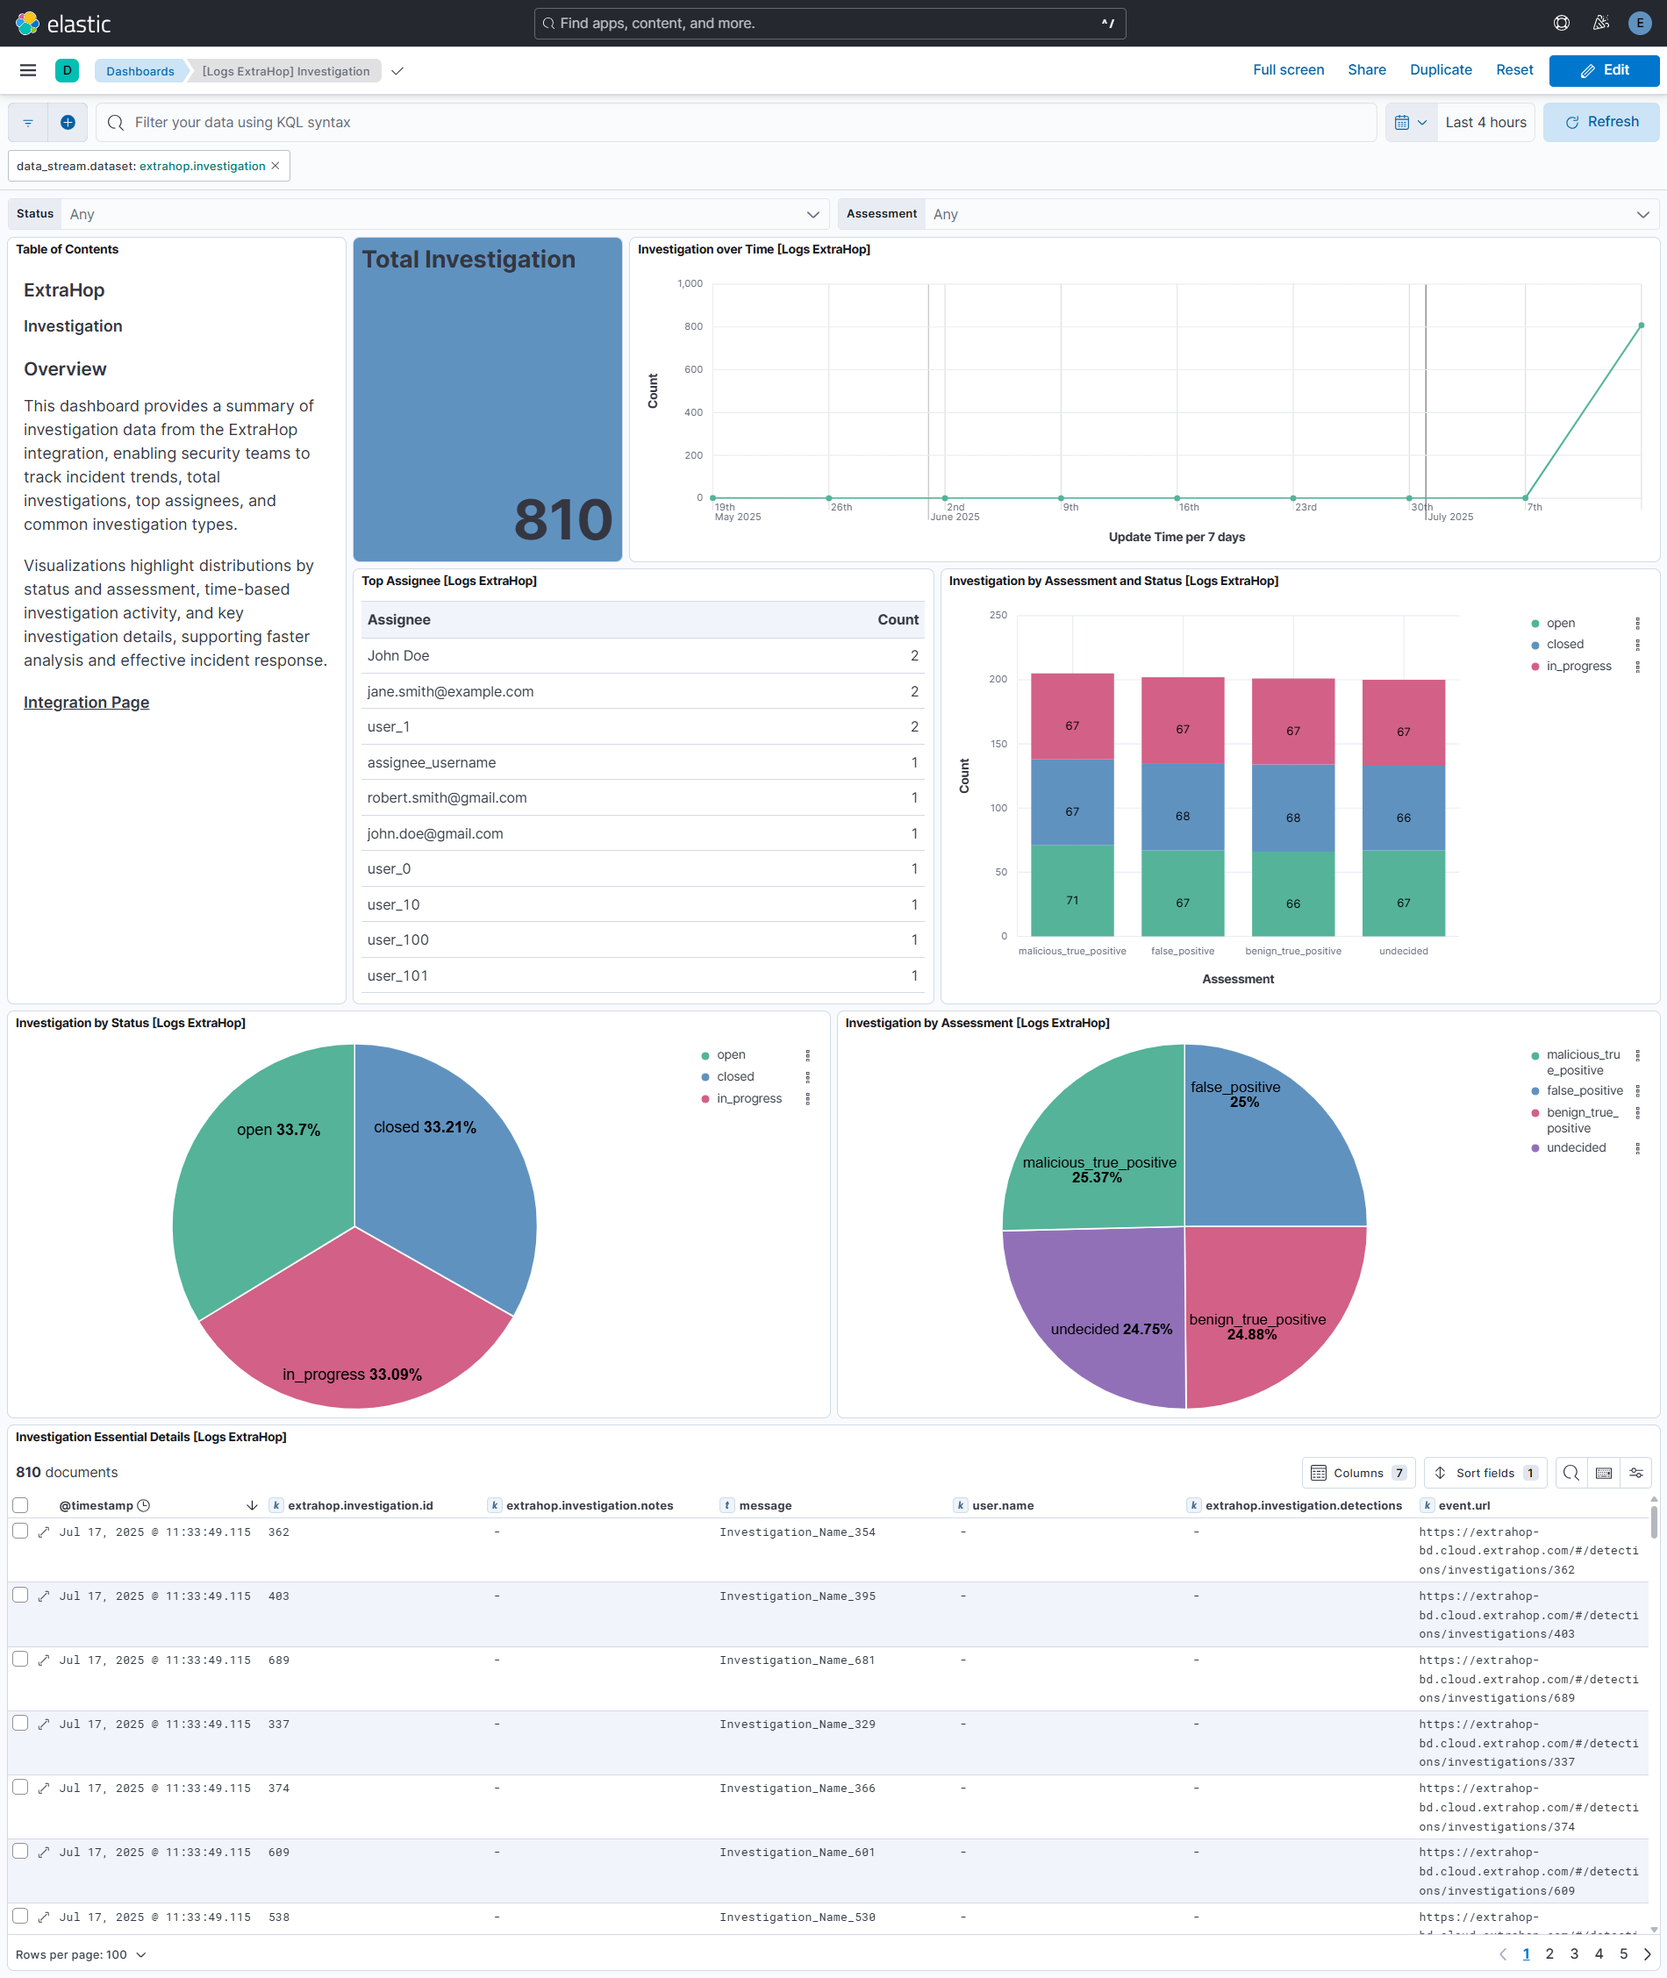
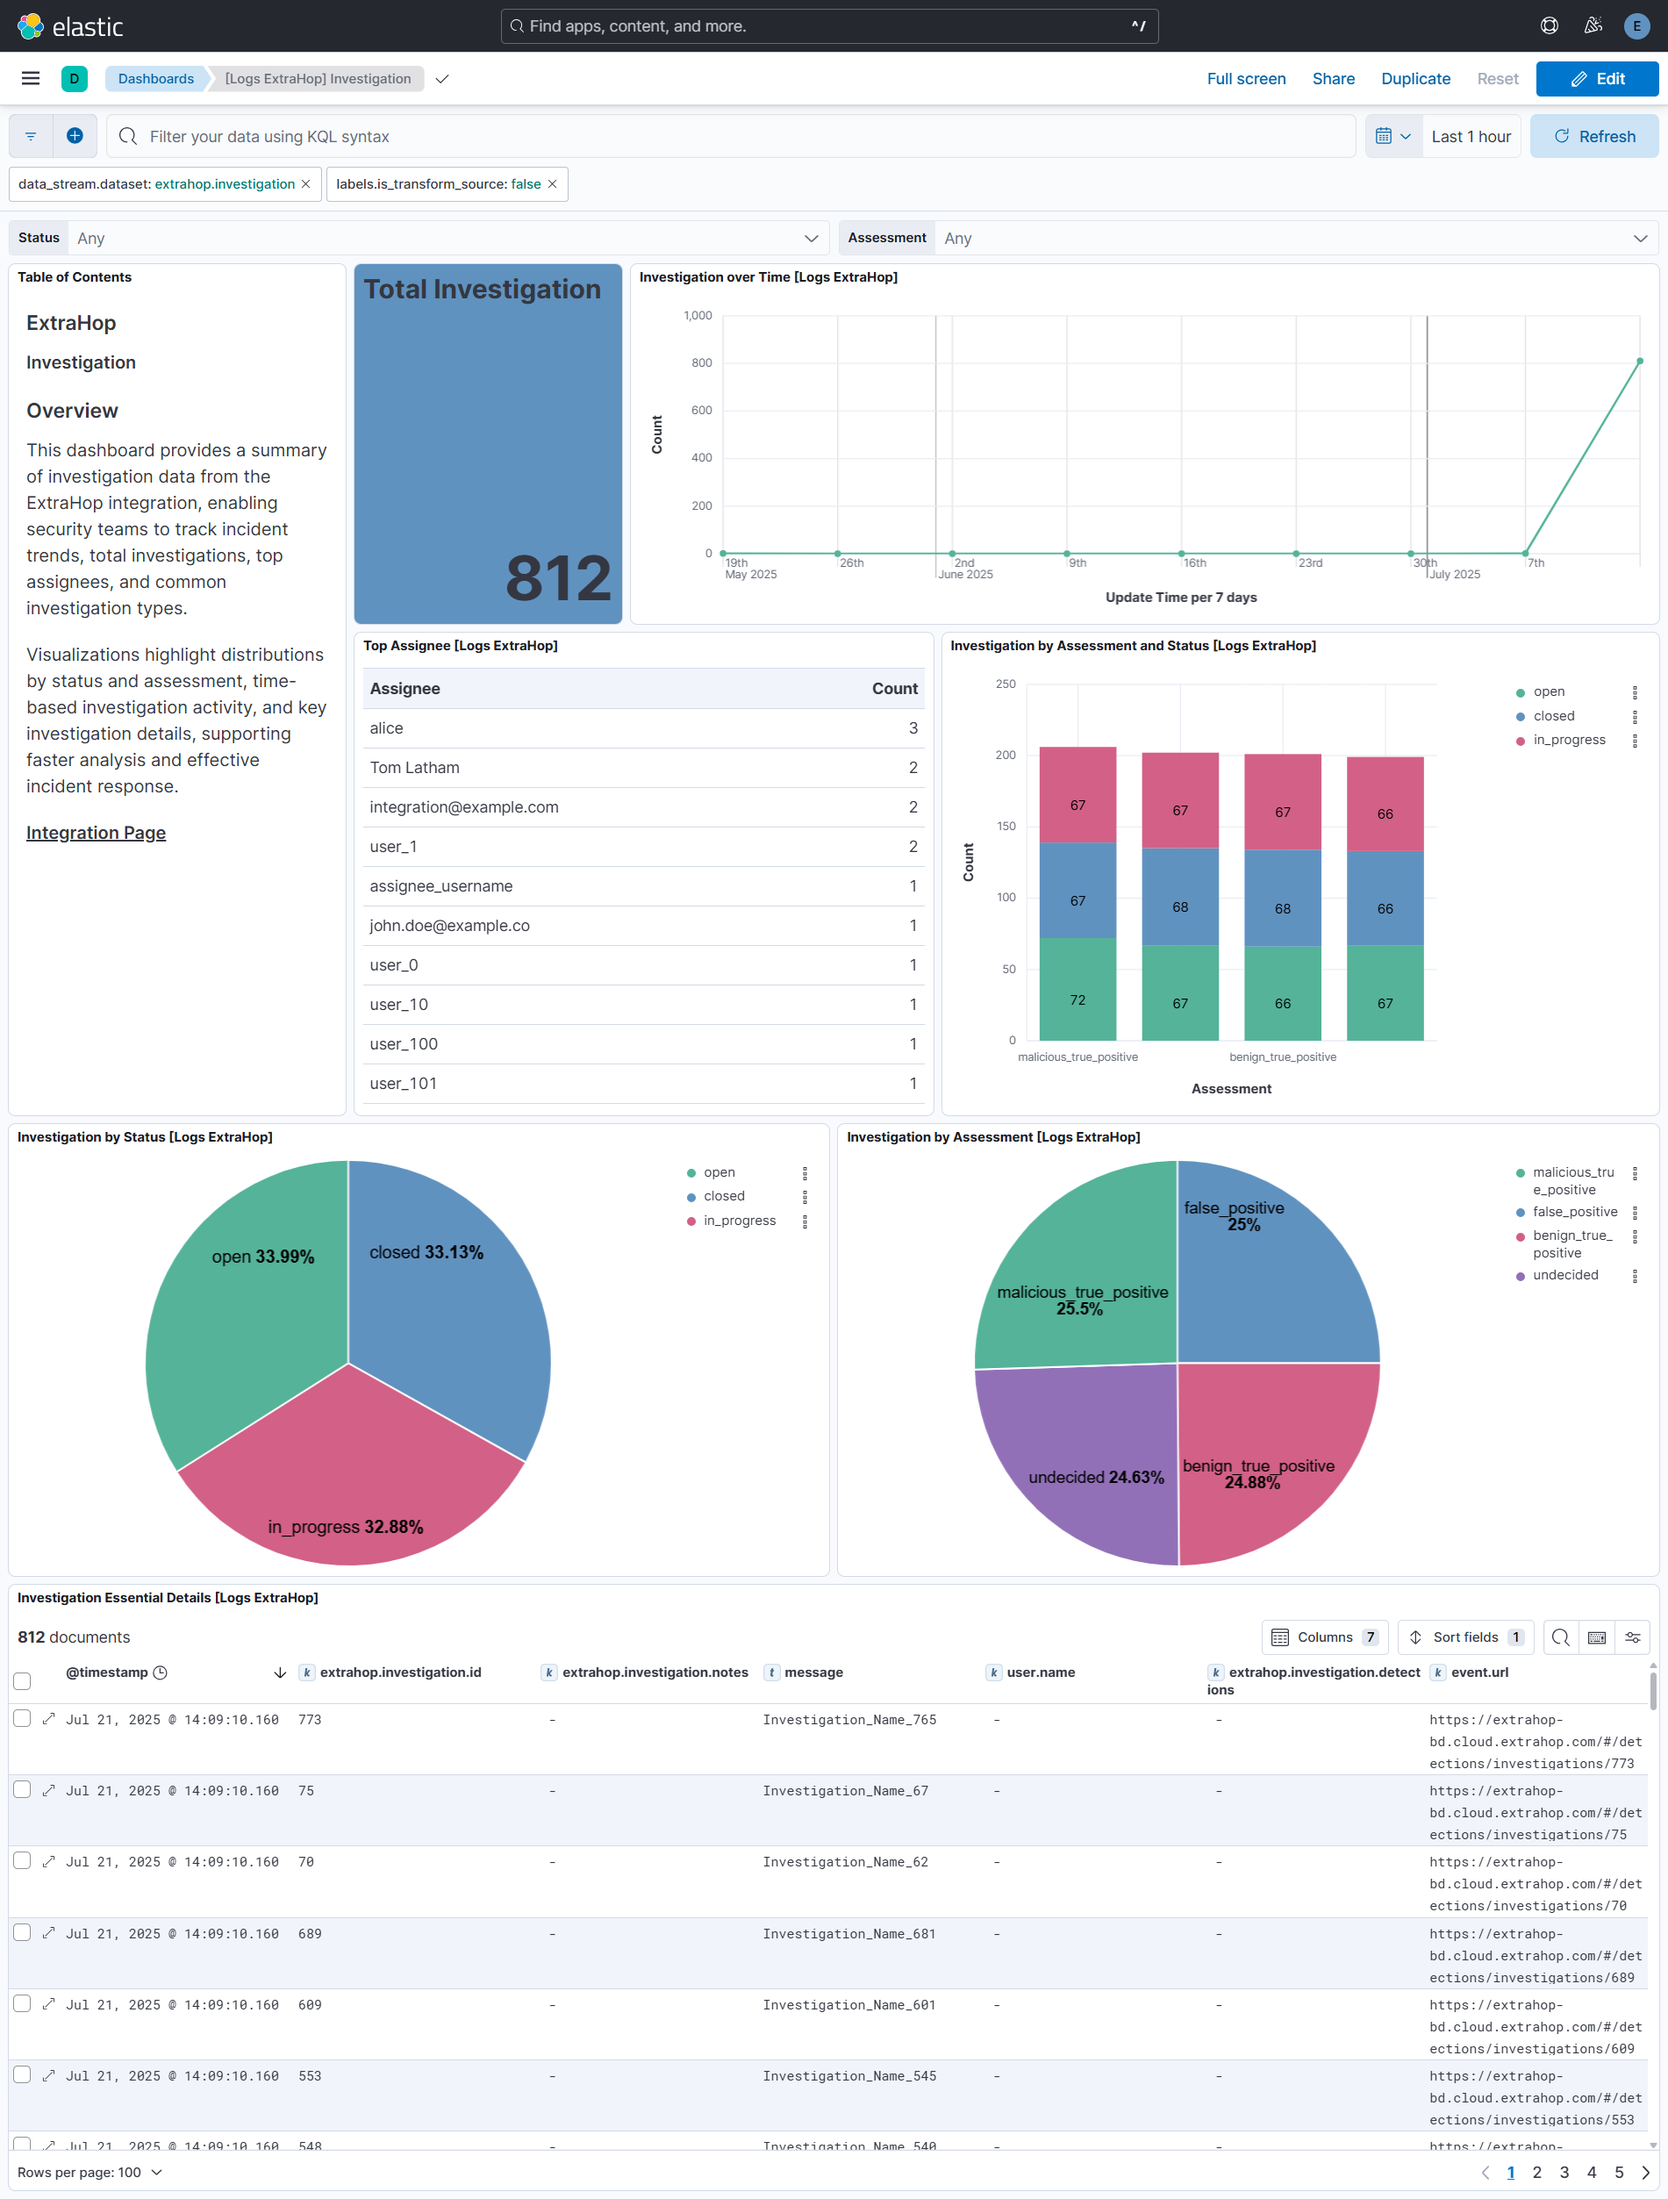
Add transform and remove ILM policy

diff --git a/packages/extrahop/docs/README.md b/packages/extrahop/docs/README.md
@@ -165,12 +165,12 @@ An example event for `investigation` looks as following:
 
 | Field | Description | Type |
 |---|---|---|
-| @timestamp | Event timestamp. | date |
-| data_stream.dataset | Data stream dataset. | constant_keyword |
-| data_stream.namespace | Data stream namespace. | constant_keyword |
-| data_stream.type | Data stream type. | constant_keyword |
-| event.dataset | Event dataset. | constant_keyword |
-| event.module | Event module. | constant_keyword |
+| @timestamp | Date/time when the event originated. This is the date/time extracted from the event, typically representing when the event was generated by the source. If the event source has no original timestamp, this value is typically populated by the first time the event was received by the pipeline. Required field for all events. | date |
+| data_stream.dataset | The field can contain anything that makes sense to signify the source of the data. Examples include `nginx.access`, `prometheus`, `endpoint` etc. For data streams that otherwise fit, but that do not have dataset set we use the value "generic" for the dataset value. `event.dataset` should have the same value as `data_stream.dataset`. Beyond the Elasticsearch data stream naming criteria noted above, the `dataset` value has additional restrictions:   \* Must not contain `-`   \* No longer than 100 characters | constant_keyword |
+| data_stream.namespace | A user defined namespace. Namespaces are useful to allow grouping of data. Many users already organize their indices this way, and the data stream naming scheme now provides this best practice as a default. Many users will populate this field with `default`. If no value is used, it falls back to `default`. Beyond the Elasticsearch index naming criteria noted above, `namespace` value has the additional restrictions:   \* Must not contain `-`   \* No longer than 100 characters | constant_keyword |
+| data_stream.type | An overarching type for the data stream. Currently allowed values are "logs" and "metrics". We expect to also add "traces" and "synthetics" in the near future. | constant_keyword |
+| event.dataset | Name of the dataset. If an event source publishes more than one type of log or events (e.g. access log, error log), the dataset is used to specify which one the event comes from. It's recommended but not required to start the dataset name with the module name, followed by a dot, then the dataset name. | constant_keyword |
+| event.module | Name of the module this data is coming from. If your monitoring agent supports the concept of modules or plugins to process events of a given source (e.g. Apache logs), `event.module` should contain the name of this module. | constant_keyword |
 | extrahop.investigation.assessment | The assessment of the investigation. | keyword |
 | extrahop.investigation.assignee | The username of the investigation assignee. | keyword |
 | extrahop.investigation.created_by |  | keyword |
@@ -190,6 +190,7 @@ An example event for `investigation` looks as following:
 | extrahop.investigation.update_time |  | date |
 | extrahop.investigation.url |  | keyword |
 | input.type | Type of filebeat input. | keyword |
+| labels.is_transform_source | Indicates whether a investigation is in the raw source data stream, or the in latest destination index. | constant_keyword |
 | log.offset | Log offset. | long |
 | observer.product |  | constant_keyword |
 | observer.type |  | constant_keyword |
